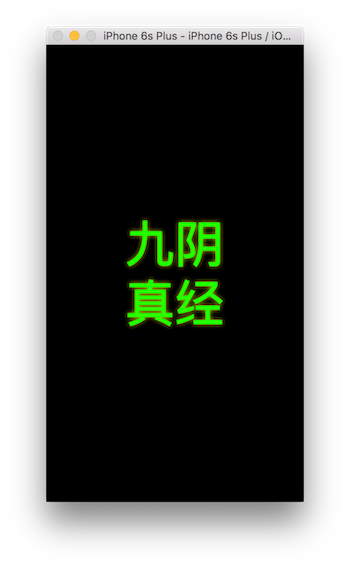
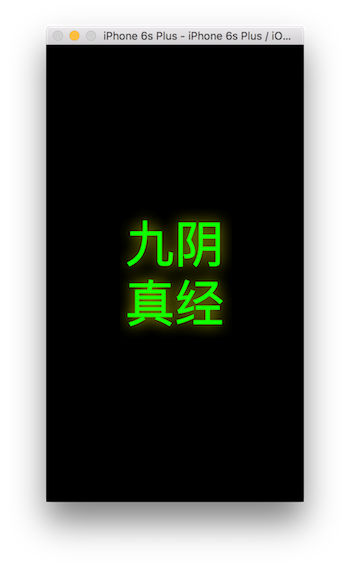
changed some settings

Changed region(s): [[0.3429, 0.3592, 0.6571, 0.5986]]

diff --git a/GlowingLabel.swift b/GlowingLabel.swift
@@ -18,7 +18,7 @@ class GlowingLabel: UILabel {
     }
     
     @IBInspectable
-    var glowSize :CGFloat = 15.0
+    var glowSize :CGFloat = 25.0
     
     
     override func drawTextInRect(rect: CGRect) {
